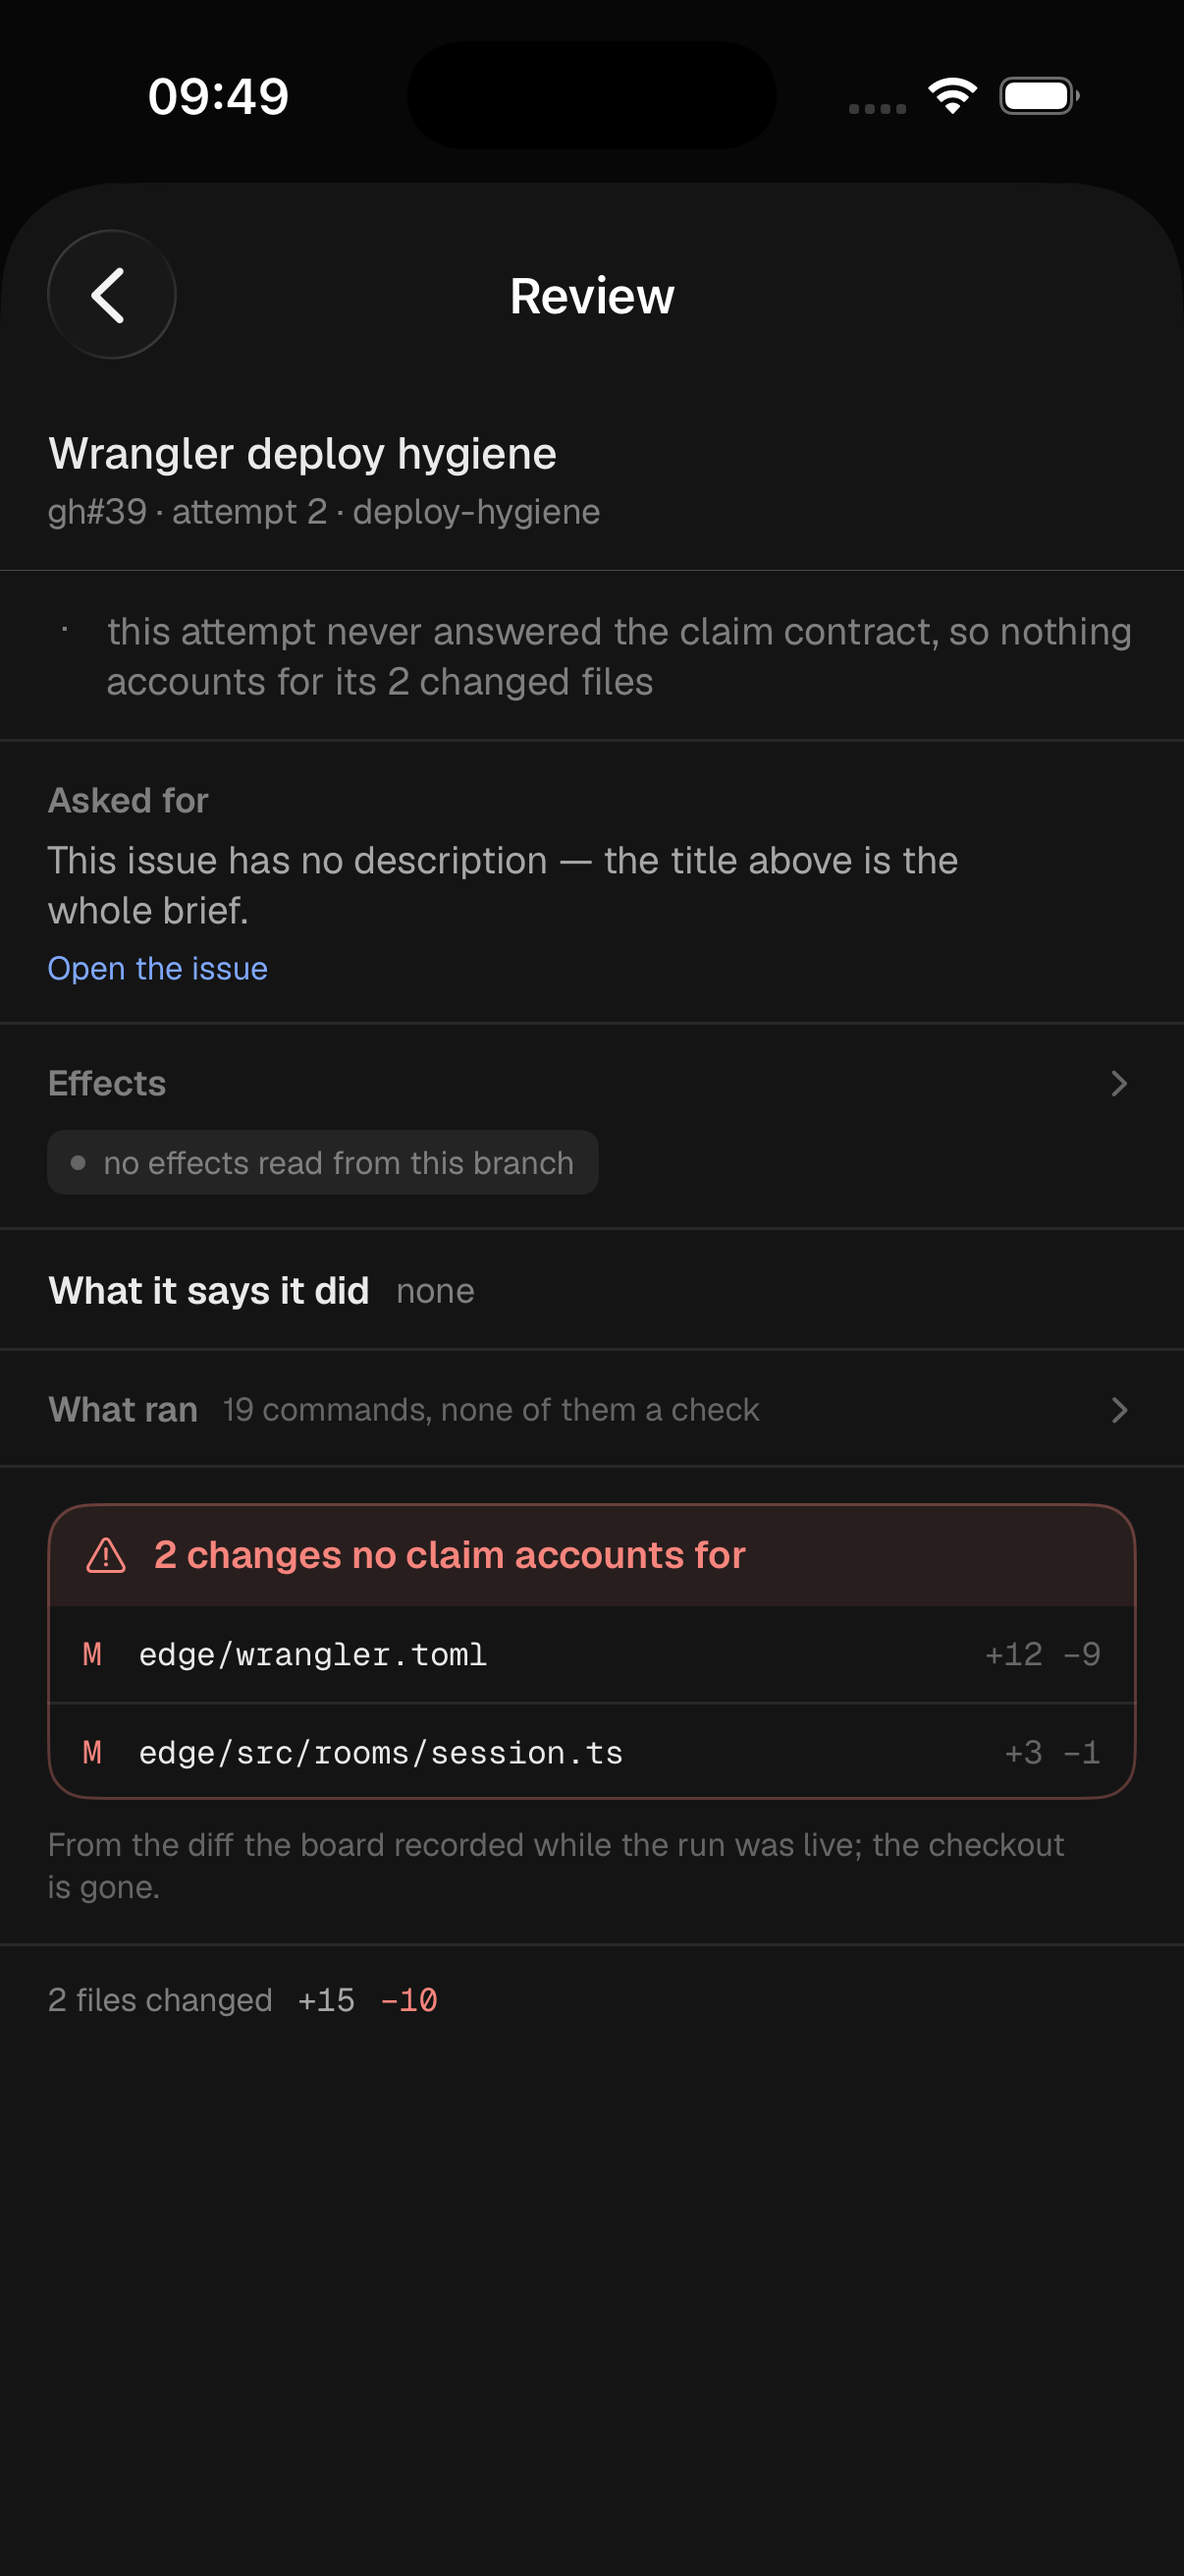
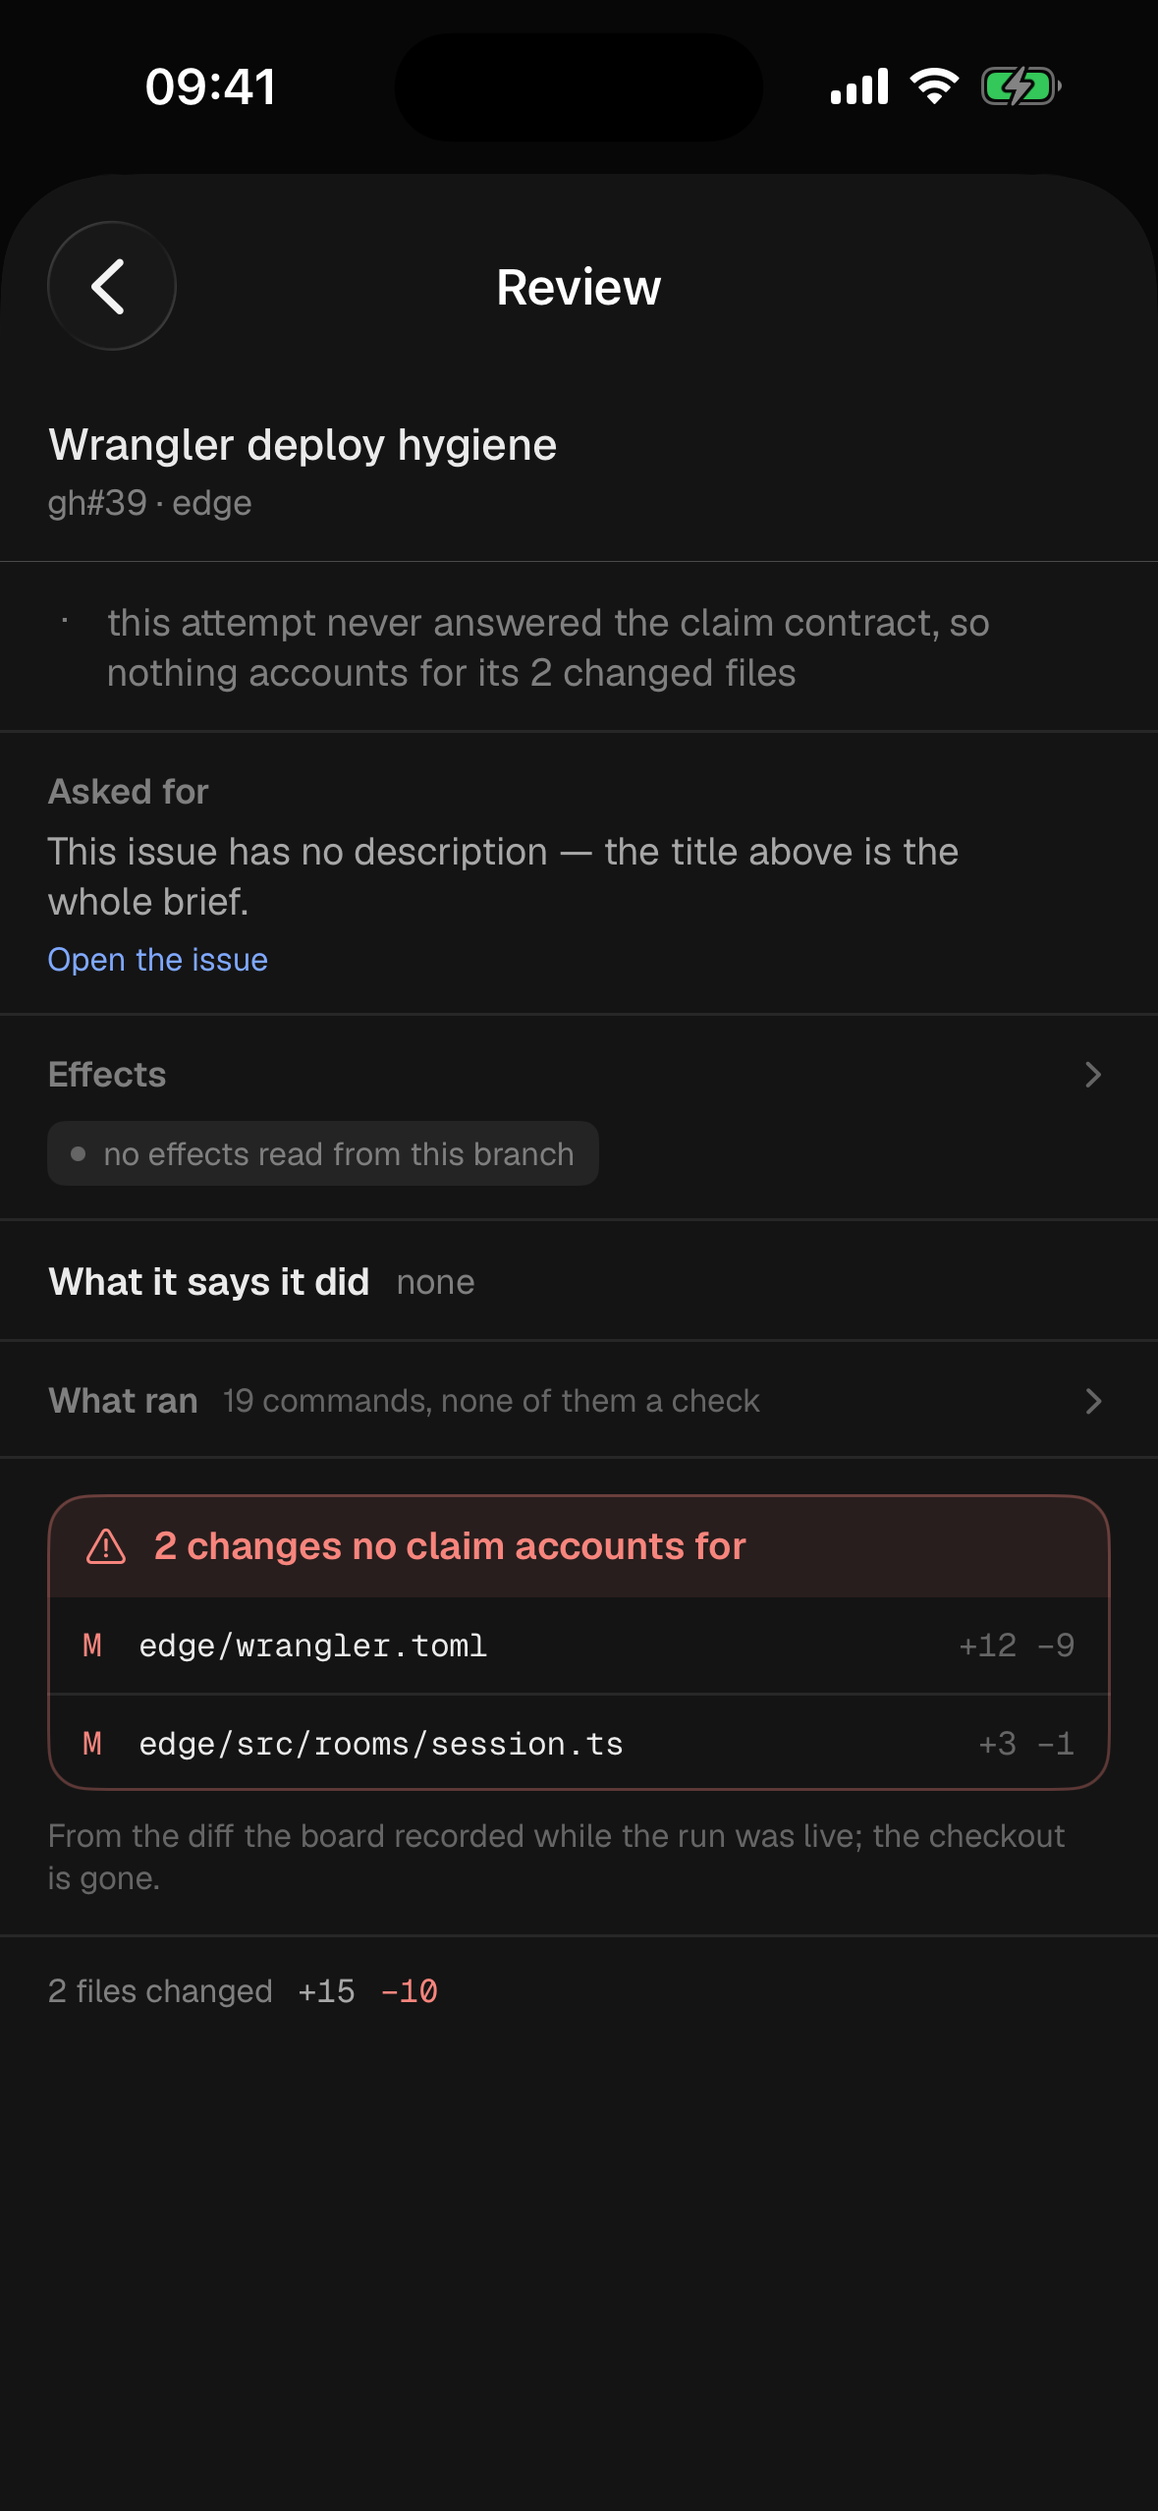
fix review proof commands and captures (gh#256)

diff --git a/apps/ios/Comet/App/DemoDataset.swift b/apps/ios/Comet/App/DemoDataset.swift
@@ -578,6 +578,8 @@ final class DemoDataset {
               "state": "failed",
               "outcome": "failed",
               "branch": "deploy-hygiene",
+              "worktree": null,
+              "pr_url": null,
               "brief": {
                 "identifier": "gh#39",
                 "title": "Wrangler deploy hygiene",

diff --git a/crates/board/tests/ios_review_spec.rs b/crates/board/tests/ios_review_spec.rs
@@ -14,8 +14,8 @@
 //! the Rust, the runner on a rule change in the Swift.
 //!
 //! ```sh
-//! cargo test -p comet-board ios_review_spec      # this half, and the guard
-//! UPDATE_REVIEW_SPEC=1 cargo test -p comet-board ios_review_spec   # regenerate
+//! cargo test -p comet-board --test ios_review_spec      # this half, and the guard
+//! UPDATE_REVIEW_SPEC=1 cargo test -p comet-board --test ios_review_spec   # regenerate
 //! scripts/ios-review-spec.sh                     # the Swift half, in a simulator
 //! ```
 //!
@@ -552,7 +552,7 @@ fn build() -> Value {
 
     json!({
         "note": "Generated by crates/board/tests/ios_review_spec.rs. \
-                 Do not hand-edit — run `UPDATE_REVIEW_SPEC=1 cargo test -p comet-board ios_review_spec`, \
+                 Do not hand-edit — run `UPDATE_REVIEW_SPEC=1 cargo test -p comet-board --test ios_review_spec`, \
                  then scripts/ios-review-spec.sh to find out what the Swift disagrees about.",
         "reviews": [
             case("the design's screen: two changes nobody claimed", &the_alarming_one()),
@@ -600,7 +600,7 @@ fn the_cross_language_fixture_matches_this_reading() {
     }
     let on_disk = std::fs::read_to_string(&path).unwrap_or_else(|err| {
         panic!(
-            "cannot read {}: {err}. Run `UPDATE_REVIEW_SPEC=1 cargo test -p comet-board ios_review_spec`",
+            "cannot read {}: {err}. Run `UPDATE_REVIEW_SPEC=1 cargo test -p comet-board --test ios_review_spec`",
             path.display()
         )
     });
@@ -641,7 +641,7 @@ fn the_cross_language_fixture_matches_this_reading() {
     }
     panic!(
         "the review reading has moved and apps/ios/Comet/Spec/review-spec.json has not.\n{}\n\n\
-         Regenerate with `UPDATE_REVIEW_SPEC=1 cargo test -p comet-board ios_review_spec`, then \
+         Regenerate with `UPDATE_REVIEW_SPEC=1 cargo test -p comet-board --test ios_review_spec`, then \
          run `scripts/ios-review-spec.sh` — the phone reimplements this reading and only the \
          simulator half will tell you whether it still agrees.",
         moved.join("\n")

diff --git a/docs/board/gh-256-the-review-screen-on-the-phone.md b/docs/board/gh-256-the-review-screen-on-the-phone.md
@@ -12,7 +12,7 @@ opinion about what a review is.
 
 ### Look at it first
 
-Both at **393×852** (iPhone 16 Pro, iOS 26.4), demo dataset, no box.
+Both at **393×852** (iPhone 15 Pro, iOS 26.4), demo dataset, no box.
 
 | The state the design draws | The state it must not flatter |
 | --- | --- |
@@ -105,8 +105,8 @@ trusted about what a run did, that is the worst possible drift.
 So the cases live outside both, exactly as §gh#157 did it for the stats page:
 
 ```sh
-cargo test -p comet-board ios_review_spec               # the Rust half + the guard
-UPDATE_REVIEW_SPEC=1 cargo test -p comet-board ios_review_spec   # regenerate
+cargo test -p comet-board --test ios_review_spec               # the Rust half + the guard
+UPDATE_REVIEW_SPEC=1 cargo test -p comet-board --test ios_review_spec   # regenerate
 scripts/ios-review-spec.sh                              # the Swift half, in a simulator
 ```
 

diff --git a/apps/ios/README.md b/apps/ios/README.md
@@ -103,7 +103,7 @@ for those rules the *cases* live outside both languages:
 cargo test -p comet-proto stats               # the Rust half + the fixture guard
 scripts/ios-stats-spec.sh                     # the Swift half, in the simulator
 
-cargo test -p comet-board ios_review_spec     # the same pair for the review
+cargo test -p comet-board --test ios_review_spec  # the same pair for the review
 scripts/ios-review-spec.sh                    # reading (gh#256)
 ```
 
